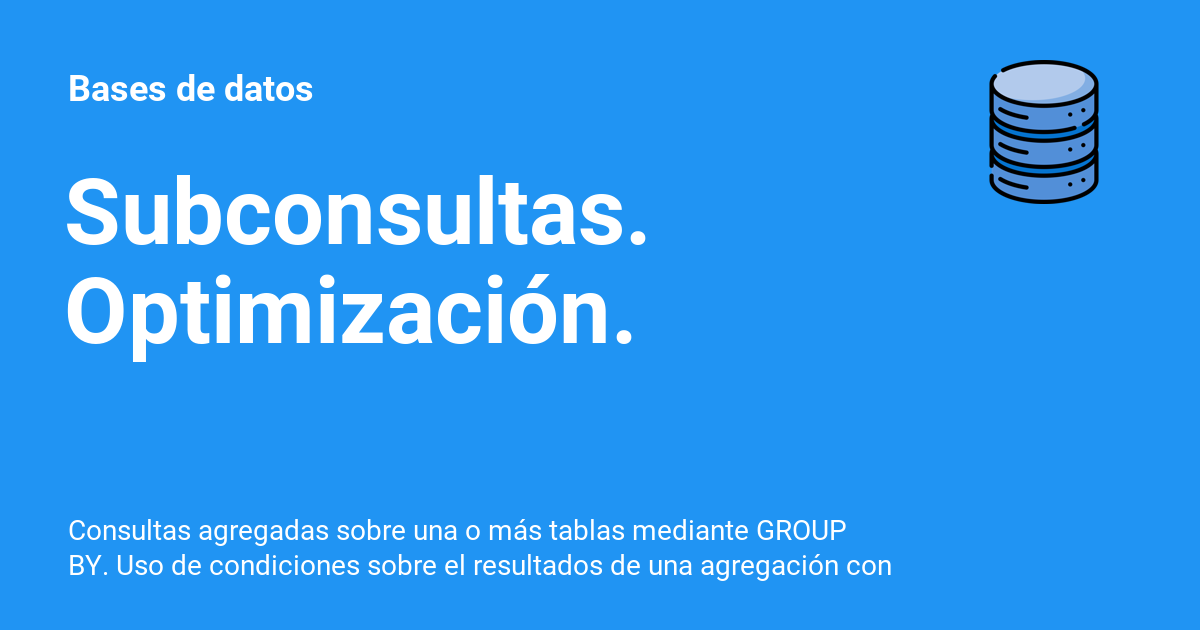
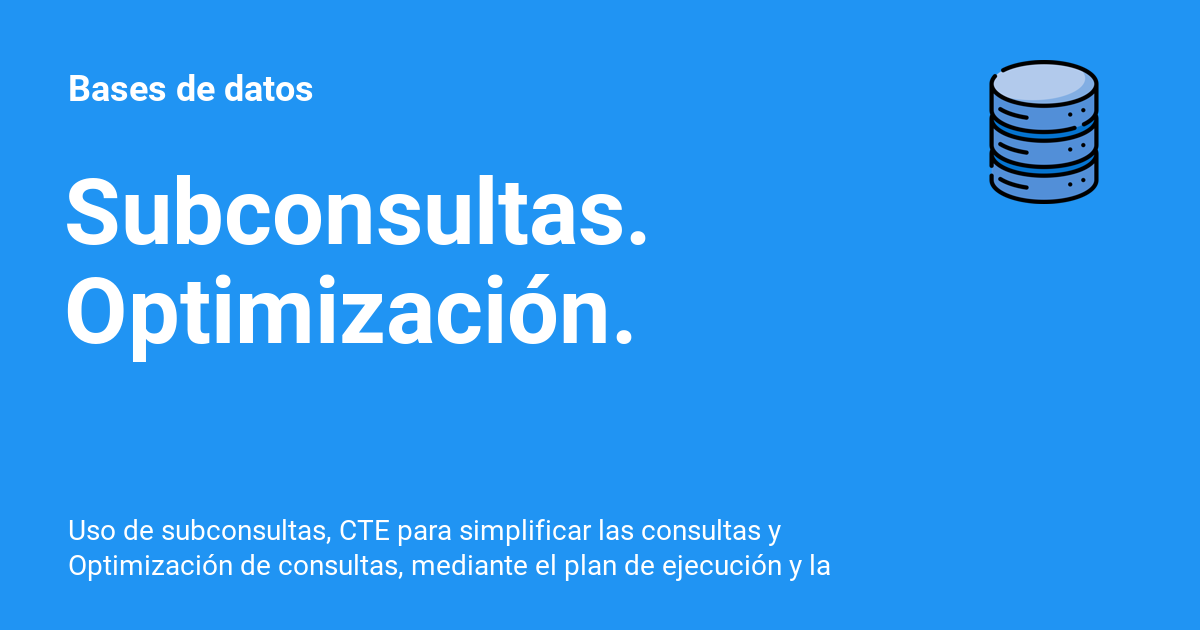
Deployed 641336a with MkDocs version: 1.6.1

Changed region(s): [[0.0617, 0.8143, 0.74, 0.9349]]

diff --git a/08sql-subquerys.html b/08sql-subquerys.html
@@ -6,7 +6,7 @@
       <meta charset="utf-8">
       <meta name="viewport" content="width=device-width,initial-scale=1">
       
-        <meta name="description" content="Consultas agregadas sobre una o más tablas mediante GROUP BY. Uso de condiciones sobre el resultados de una agregación con HAVING.">
+        <meta name="description" content="Uso de subconsultas, CTE para simplificar las consultas y Optimización de consultas, mediante el plan de ejecución y la definición de índices.">
       
       
       
@@ -73,7 +73,7 @@
       
         <meta  property="og:title"  content="Subconsultas. Optimización. - Bases de datos" >
       
-        <meta  property="og:description"  content="Consultas agregadas sobre una o más tablas mediante GROUP BY. Uso de condiciones sobre el resultados de una agregación con HAVING." >
+        <meta  property="og:description"  content="Uso de subconsultas, CTE para simplificar las consultas y Optimización de consultas, mediante el plan de ejecución y la definición de índices." >
       
         <meta  property="og:image"  content="https://aitor-medrano.github.io/bd/assets/images/social/08sql-subquerys.png" >
       
@@ -89,7 +89,7 @@
       
         <meta  name="twitter:title"  content="Subconsultas. Optimización. - Bases de datos" >
       
-        <meta  name="twitter:description"  content="Consultas agregadas sobre una o más tablas mediante GROUP BY. Uso de condiciones sobre el resultados de una agregación con HAVING." >
+        <meta  name="twitter:description"  content="Uso de subconsultas, CTE para simplificar las consultas y Optimización de consultas, mediante el plan de ejecución y la definición de índices." >
       
         <meta  name="twitter:image"  content="https://aitor-medrano.github.io/bd/assets/images/social/08sql-subquerys.png" >
       
